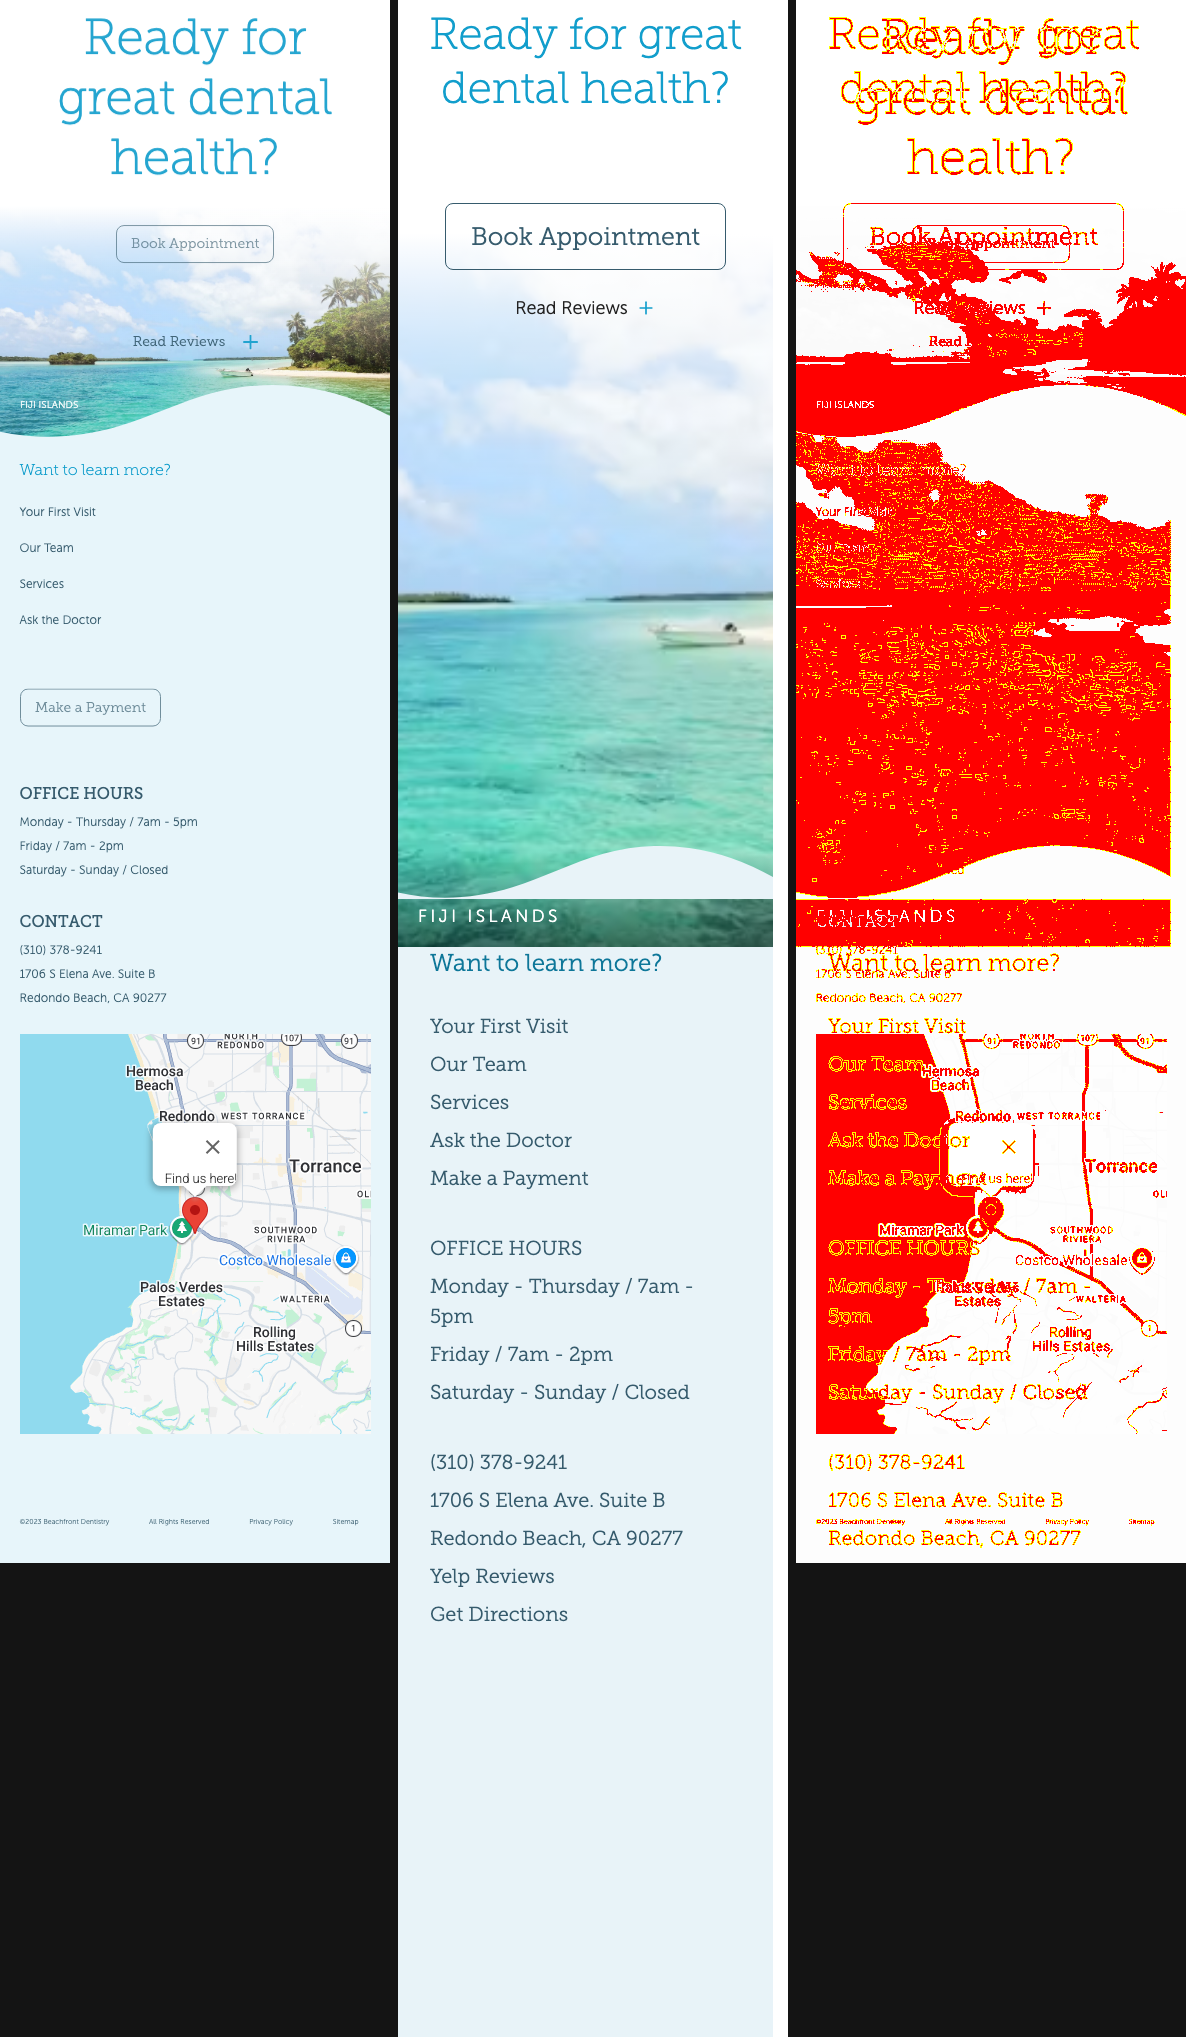
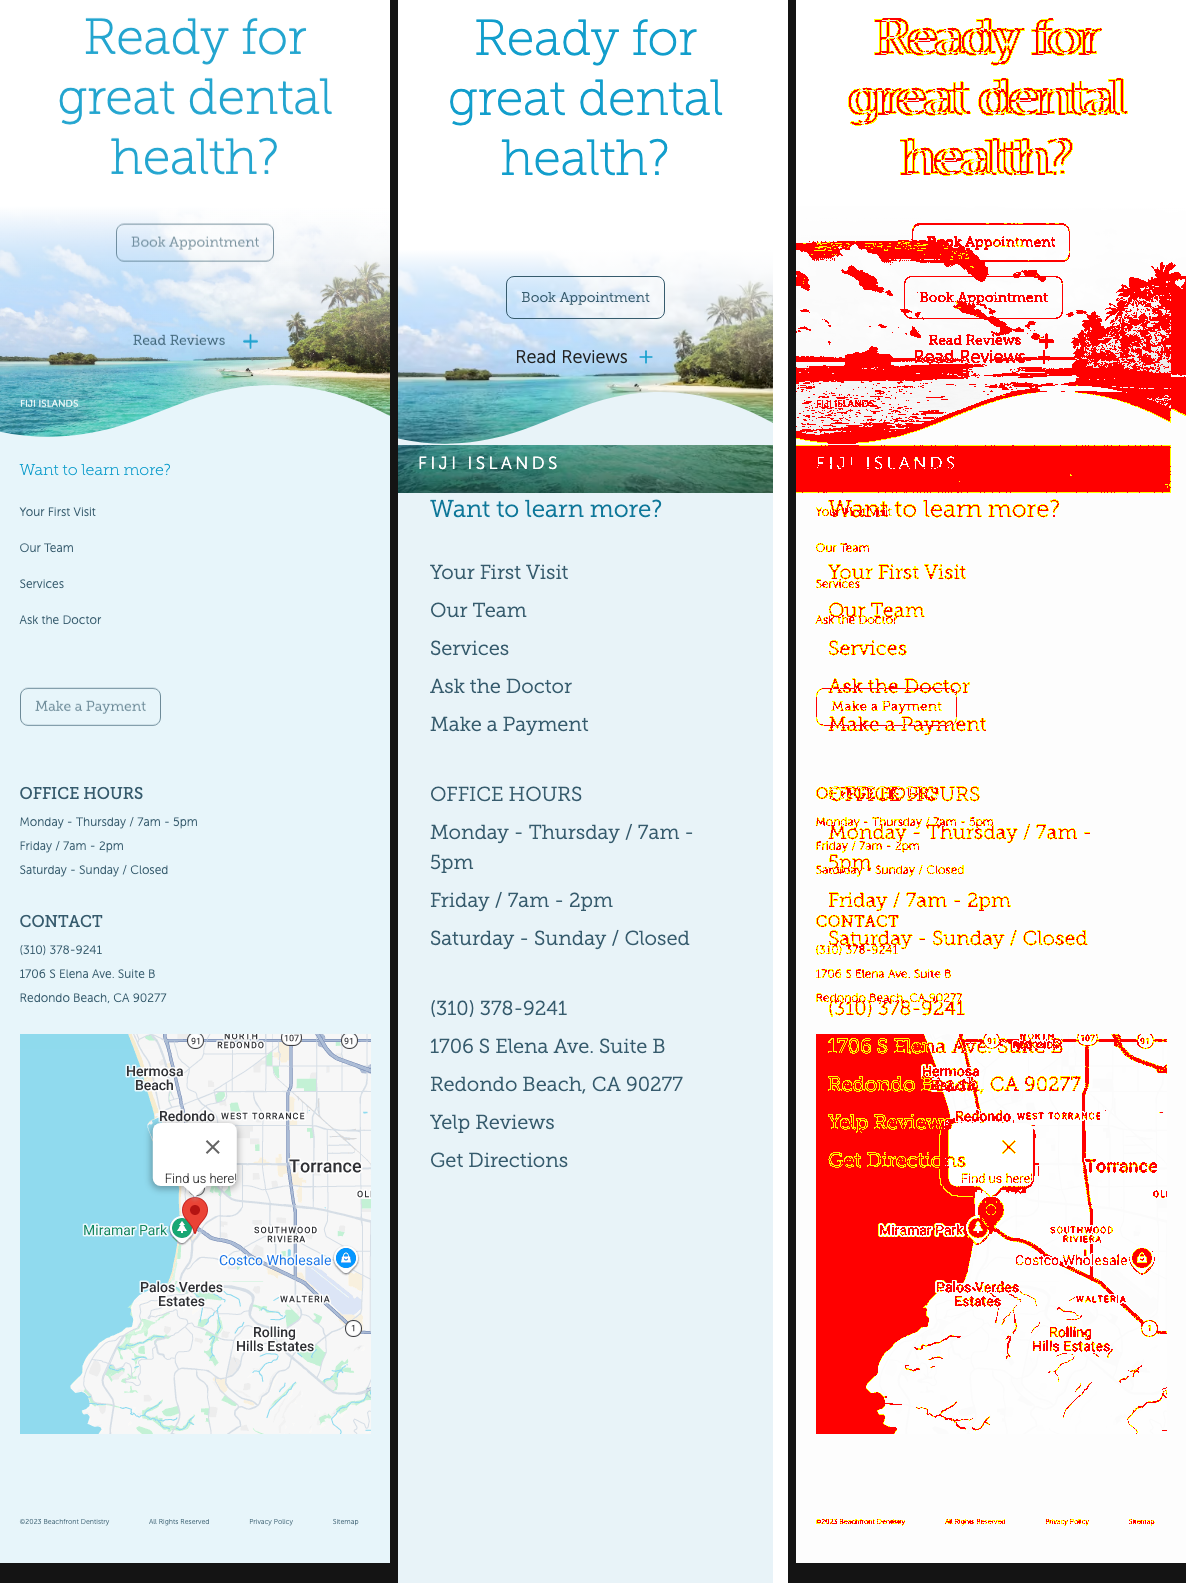
fix(design): mobile closing Fiji band + heading match live
The Fiji photo band carried a desktop-tuned min-height:800px that on mobile shoved
the entire footer + map off-screen. Live's mobile fiji-section is only ~273px (a
short beach strip), growing to ~800px on desktop.

- Fiji band min-height 800px -> min-h-[273px] lg:min-h-[800px]. Footer + map now
  sit where live has them (region 40%->18%).
- Book Appointment / Read Reviews pill 25px -> compact 14px on mobile (live 179x38),
  desktop keeps 25px via lg:.
- display-xl closing heading floor 2.75rem -> 3.125rem so 'Ready for great dental
  health?' is ~50px on mobile like live (weight 100), wrapping to 3 lines instead
  of 2 — which also restores the vertical rhythm below it.

Residual ~18% is the footer's floor: the live Google-Maps embed is dynamic (same
non-pixel-matchable region as desktop's 16% footer floor) plus minor footer-column
structure (live's 'Make a Payment' pill + compact 2-col). CtaBand/Hero tests 8/8.

diff --git a/src/lib/components/CtaBand.svelte b/src/lib/components/CtaBand.svelte
@@ -63,7 +63,7 @@
     {#if ctaLabel && ctaLink}
       <PrismicLink
         field={ctaLink}
-        class="font-slab hover:border-primary hover:text-primary-deep focus-visible:ring-primary-deep inline-block rounded-lg border border-[#365b6d] px-[25px] py-[14px] text-[25px] font-light text-[#365b6d] transition-colors focus-visible:ring-2 focus-visible:ring-offset-2 focus-visible:outline-hidden"
+        class="font-slab hover:border-primary hover:text-primary-deep focus-visible:ring-primary-deep inline-block rounded-lg border border-[#365b6d] px-[14px] py-[10px] text-[14px] font-light text-[#365b6d] transition-colors focus-visible:ring-2 focus-visible:ring-offset-2 focus-visible:outline-hidden lg:px-[25px] lg:py-[14px] lg:text-[25px]"
       >
         {ctaLabel}
       </PrismicLink>
@@ -96,10 +96,12 @@
       </div>
       <RichTextBody field={body} />
     </div>
-    <!-- Tall fiji photo (live ~800px). Its white-faded top carries the CTAs. -->
+    <!-- Fiji photo. Live's band is only ~273px on mobile (a short beach strip),
+         growing to ~800px on desktop; the 800px was desktop-only and was pushing
+         the whole footer + map off-screen on mobile. Its white-faded top carries
+         the CTAs. -->
     <div
-      class="relative isolate w-full overflow-hidden"
-      style="min-height: 800px;"
+      class="relative isolate min-h-[273px] w-full overflow-hidden lg:min-h-[800px]"
     >
       <HeroBackgroundImage image={backgroundImage} preload={false} />
       <!-- White for the top ~18% fading to clear by ~60%, so the heading above

diff --git a/src/app.css b/src/app.css
@@ -237,7 +237,7 @@ main :where(h1, h2, h3) {
    ultra-light display type on the original (140px/w100). */
 .display-xl :where(h1, h2),
 .display-xl {
-  font-size: clamp(2.75rem, 0.5rem + 9.3vw, 8.75rem); /* → 140px @ 1440 */
+  font-size: clamp(3.125rem, 0.5rem + 9.3vw, 8.75rem); /* 50px mobile → 140px @ 1440 */
   font-weight: 100;
   line-height: 1.2; /* live's display leading (168/140); 1.05 compacted it */
 }
